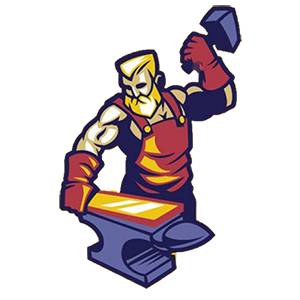
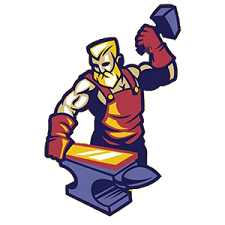
아이콘 사이즈 변경 및 middle page 주석 추가

diff --git a/src/gui/MiddlePage.java b/src/gui/MiddlePage.java
@@ -52,7 +52,7 @@ public class MiddlePage extends JFrame {
 	public MiddlePage() {
 		pick = new Pickax();
 		dao=new ClickerDAO();
-		
+		//창 크기 조절
 		setDefaultCloseOperation(JFrame.EXIT_ON_CLOSE);
 		setDefaultCloseOperation(dao.saveUser());
 		setBounds(100, 100, 700, 600);
@@ -61,32 +61,32 @@ public class MiddlePage extends JFrame {
 		contentPane.setLayout(new BorderLayout(0, 0));
 		setContentPane(contentPane);
 		setVisible(true);		
-		
+		//창 중간에 패널 넣기
 		JPanel panel = new JPanel();
 		contentPane.add(panel, BorderLayout.CENTER);
 		panel.setLayout(new GridLayout(0, 2, 0, 0));
-		
+		//광산 버튼 추가
 		JButton btnMine = new JButton("광산");
 		btnMine.addActionListener(new ActionListener() {
-			@Override
+			@Override//광산 버튼 누를시 광산 창으로 연결
 			public void actionPerformed(ActionEvent e) {
 				dispose();
 				MineSelect ms = new MineSelect();
 			}
 		});
-		
+		//스크롤2 이미지 삽입
 		JLabel lblNewLabel = new JLabel("");
 		lblNewLabel.setIcon(new ImageIcon(MiddlePage.class.getResource("/gui/scroll2.png")));
 		lblNewLabel.setHorizontalAlignment(SwingConstants.CENTER);
 		panel.add(lblNewLabel);
-		
+		//스크롤1 이미지 삽입
 		JLabel lblNewLabel_1 = new JLabel("");
 		lblNewLabel_1.setIcon(new ImageIcon(MiddlePage.class.getResource("/gui/scroll1.png")));
 		lblNewLabel_1.setHorizontalAlignment(SwingConstants.CENTER);
 		panel.add(lblNewLabel_1);
 		btnMine.setIcon(new ImageIcon(MiddlePage.class.getResource("/gui/mine-cart.PNG")));
-		panel.add(btnMine);
-		
+		panel.add(btnMine);//광산차 이미지 삽입
+		//상점 버튼을 누를시 store으로 연결
 		JButton btnStore = new JButton("상점");
 		btnStore.addActionListener(new ActionListener() {
 			@Override
@@ -124,7 +124,7 @@ public class MiddlePage extends JFrame {
 		
 		JPanel panel_3 = new JPanel();
 		panel_1.add(panel_3, BorderLayout.WEST);
-		
+		//아이디를 표시
 		JLabel lblNewLabel_5 = new JLabel("ID : "+pick.getUserId());
 		panel_3.add(lblNewLabel_5);
 		
@@ -134,7 +134,7 @@ public class MiddlePage extends JFrame {
 
 		JButton btnNewButton1 = new JButton("돌곡괭이 0");
 		btnNewButton1.addActionListener(new ActionListener() {
-			
+			//곡괭이에 대한 정보 표시
 			@Override
 			public void actionPerformed(ActionEvent e) {
 				PickaxInfo pick = new PickaxInfo();
@@ -145,7 +145,7 @@ public class MiddlePage extends JFrame {
 		//JButton btnNewButton1 = new JButton(pick.getPickName()+" +"+pick.getLevel());
 
 		panel_4.add(btnNewButton1);
-		
+		// 곡괭이 내구도 표시
 		JLabel lblNewLabel_3 = new JLabel("내구도 : ");
 		panel_4.add(lblNewLabel_3);
 		
@@ -154,7 +154,7 @@ public class MiddlePage extends JFrame {
 		
 		JPanel panel_5 = new JPanel();
 		panel_1.add(panel_5, BorderLayout.EAST);
-		
+		//아이디에 있는 소지금 표시
 		JLabel lblNewLabel_6 = new JLabel("소지금 : ");
 		panel_5.add(lblNewLabel_6);
 		
@@ -164,11 +164,11 @@ public class MiddlePage extends JFrame {
 		JPanel panel_2 = new JPanel();
 		contentPane.add(panel_2, BorderLayout.NORTH);
 		panel_2.setLayout(new BorderLayout(0, 0));
-		
+		//왼쪽 상단에 있는 점수 표시
 		JButton btnNewButton_1 = new JButton("점수 : " + pick.getScore());
 		btnNewButton_1.setHorizontalAlignment(SwingConstants.LEFT);
 		btnNewButton_1.addActionListener(new ActionListener() {
-			
+			//랭킹 점수 클릭시 랭킹점수표시판으로 연결
 			@Override
 			public void actionPerformed(ActionEvent e) {
 				Ranking ranking = new Ranking();
@@ -176,7 +176,7 @@ public class MiddlePage extends JFrame {
 			}
 		});
 		panel_2.add(btnNewButton_1, BorderLayout.WEST);
-		
+		//로그아웃 버큰 누를시 게임 종료 창 연결
 		JButton btnLogout = new JButton("로그아웃");
 		btnLogout.addActionListener(new ActionListener() {
 			@Override
